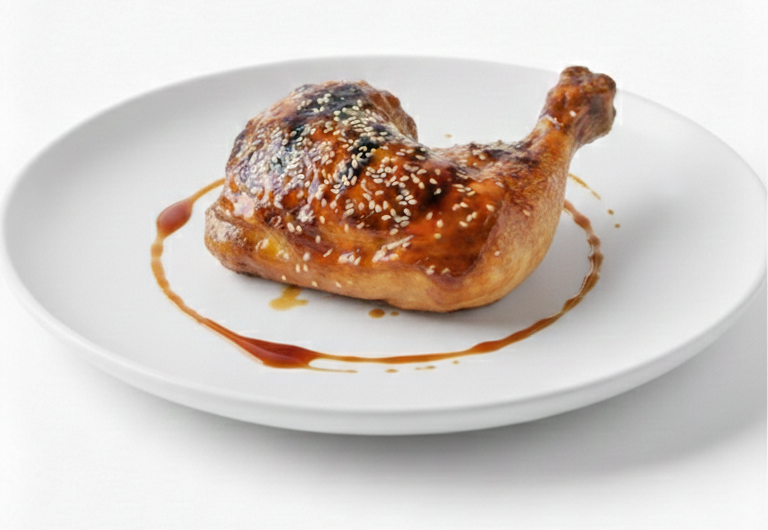
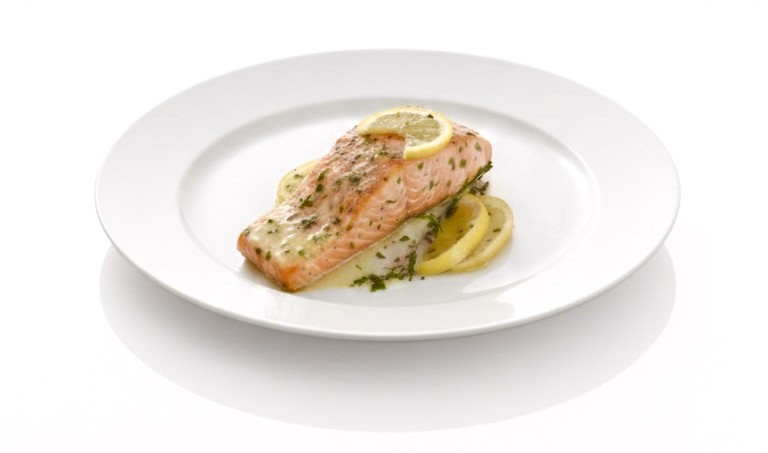
כעכגעכגע

diff --git a/bsisi.html b/bsisi.html
@@ -1340,7 +1340,8 @@ M267 42L268 41L271 41L272 42L272 45L269 47L267 45Z"/>
         var popup = $("summary-popup");
         popup.style.display = "block";
         popup.setAttribute("aria-hidden", "false");
-        validatePopupForm();
+        popupFormWasSubmitted = false;
+        validatePopupForm(false);
 
         _popupLastFocus = document.activeElement;
 
@@ -1431,7 +1432,9 @@ M267 42L268 41L271 41L272 42L272 45L269 47L267 45Z"/>
         return false;
       }
 
-      function validatePopupForm() {
+      var popupFormWasSubmitted = false;
+
+      function validatePopupForm(showErrors) {
         var nameEl = $("customerName");
         var addrEl = $("deliveryAddress");
         var phoneEl = $("customerPhone");
@@ -1453,24 +1456,50 @@ M267 42L268 41L271 41L272 42L272 45L269 47L267 45Z"/>
         var okPhone = isValidILPhone(phone);
         var okDate = date.length > 0;
         var okTime = time.length > 0 && !timeEl.disabled;
+        var allOk = okName && okAddr && okPhone && okDate && okTime;
+        var missingFields = [];
+        var invalidFields = [];
 
-        setFieldValidity(nameEl, okName);
-        setFieldValidity(addrEl, okAddr);
-        setFieldValidity(phoneEl, okPhone);
-        setFieldValidity(dateEl, okDate);
-        setFieldValidity(timeEl, okTime);
+        if (!name.length) missingFields.push("שם המזמין");
+        else if (!okName) invalidFields.push("שם המזמין - לפחות 2 תווים");
+
+        if (!addr.length) missingFields.push("כתובת למשלוח");
+        else if (!okAddr) invalidFields.push("כתובת למשלוח - נא למלא כתובת מלאה");
+
+        if (!phone.length) missingFields.push("טלפון לחזרה");
+        else if (!okPhone) invalidFields.push("טלפון לחזרה - מספר ישראלי תקין");
+
+        if (!okDate) missingFields.push("תאריך האירוע");
+        if (!okTime) missingFields.push("שעת משלוח משוערת");
+
+        if (showErrors) {
+          setFieldValidity(nameEl, okName);
+          setFieldValidity(addrEl, okAddr);
+          setFieldValidity(phoneEl, okPhone);
+          setFieldValidity(dateEl, okDate);
+          setFieldValidity(timeEl, okTime);
+        } else {
+          setFieldValidity(nameEl, true);
+          setFieldValidity(addrEl, true);
+          setFieldValidity(phoneEl, true);
+          setFieldValidity(dateEl, true);
+          setFieldValidity(timeEl, true);
+        }
 
         var msg = "";
-        if (!okName) msg = "יש אי־תקינות בשדה: שם המזמין (לפחות 2 תווים).";
-        else if (!okAddr) msg = "יש אי־תקינות בשדה: כתובת למשלוח (נא למלא כתובת מלאה).";
-        else if (!okPhone) msg = "יש אי־תקינות בשדה: טלפון לחזרה (מספר ישראלי תקין).";
-        else if (!okDate) msg = "יש אי־תקינות בשדה: תאריך האירוע (נא לבחור תאריך).";
-        else if (!okTime) msg = "יש אי־תקינות בשדה: שעת משלוח משוערת (נא לבחור שעה).";
+        if (showErrors) {
+          if (missingFields.length) {
+            msg = "חסרים פרטים: " + missingFields.join(", ") + ".";
+          } else if (invalidFields.length) {
+            msg = "יש אי־תקינות בפרטים: " + invalidFields.join(", ") + ".";
+          }
+        }
 
         setFormError(msg);
 
-        var allOk = okName && okAddr && okPhone && okDate && okTime;
-        btn.disabled = !allOk;
+        if (btn.getAttribute("data-submitting") !== "true") btn.disabled = false;
+        btn.classList.toggle("is-disabled", !allOk);
+        btn.setAttribute("aria-disabled", allOk ? "false" : "true");
 
         return allOk;
       }
@@ -1598,13 +1627,13 @@ function buildItemsArray(data) {
       }
 
       function bindPopupFormEvents() {
-        var ids = ["customerName", "deliveryAddress", "customerPhone", "eventDate", "orderNotes"];
+        var ids = ["customerName", "deliveryAddress", "customerPhone", "eventDate", "eventTime", "orderNotes"];
         for (var i = 0; i < ids.length; i++) {
           var el = $(ids[i]);
           if (!el) continue;
-          el.addEventListener("input", validatePopupForm);
-          el.addEventListener("change", validatePopupForm);
-          el.addEventListener("blur", validatePopupForm);
+          el.addEventListener("input", function () { validatePopupForm(popupFormWasSubmitted); });
+          el.addEventListener("change", function () { validatePopupForm(popupFormWasSubmitted); });
+          el.addEventListener("blur", function () { validatePopupForm(popupFormWasSubmitted); });
         }
       }
 
@@ -1613,12 +1642,14 @@ function buildItemsArray(data) {
         if (!btn) return;
 
         btn.addEventListener("click", function () {
-          if (!validatePopupForm()) return;
+          popupFormWasSubmitted = true;
+          if (!validatePopupForm(true)) return;
 
           // var waUrl = "https://wa.me/" + WA_PHONE + "?text=" + encodeURIComponent(buildWhatsappText());
           // window.open(waUrl, "_blank");
 
           var oldText = btn.textContent;
+          btn.setAttribute("data-submitting", "true");
           btn.disabled = true;
           btn.textContent = "שולח...";
 
@@ -1654,8 +1685,9 @@ function buildItemsArray(data) {
               alert("לא הצלחתי לשלוח כרגע. נסי שוב.");
             })
             .finally(function () {
+              btn.removeAttribute("data-submitting");
               btn.textContent = oldText;
-              validatePopupForm();
+              validatePopupForm(popupFormWasSubmitted);
             });
         });
       }
@@ -1793,7 +1825,7 @@ function buildItemsArray(data) {
             timeEl.innerHTML = '<option value="">בחרי תאריך קודם</option>';
             timeEl.disabled = true;
             timeEl.value = "";
-            validatePopupForm();
+            validatePopupForm(popupFormWasSubmitted);
             return;
           }
 
@@ -1814,7 +1846,7 @@ function buildItemsArray(data) {
             timeEl.value = "";
           }
 
-          validatePopupForm();
+          validatePopupForm(popupFormWasSubmitted);
         }
 
         dateEl.addEventListener("change", refreshTimes);
@@ -1903,7 +1935,7 @@ function buildItemsArray(data) {
 
         initServingsChange();
 
-        validatePopupForm();
+        validatePopupForm(false);
         updateRemainingHints();
       }
 
@@ -1917,11 +1949,5 @@ function buildItemsArray(data) {
 </body>
 
 </html>
-
-
-
-
-
-
 
 

diff --git a/murchav.html b/murchav.html
@@ -1417,7 +1417,8 @@ M267 42L268 41L271 41L272 42L272 45L269 47L267 45Z"/>
         var popup = $("summary-popup");
         popup.style.display = "block";
         popup.setAttribute("aria-hidden", "false");
-        validatePopupForm();
+        popupFormWasSubmitted = false;
+        validatePopupForm(false);
 
         _popupLastFocus = document.activeElement;
 
@@ -1511,7 +1512,9 @@ M267 42L268 41L271 41L272 42L272 45L269 47L267 45Z"/>
         return false;
       }
 
-      function validatePopupForm() {
+      var popupFormWasSubmitted = false;
+
+      function validatePopupForm(showErrors) {
         var nameEl = $("customerName");
         var addrEl = $("deliveryAddress");
         var phoneEl = $("customerPhone");
@@ -1532,24 +1535,50 @@ M267 42L268 41L271 41L272 42L272 45L269 47L267 45Z"/>
         var okPhone = isValidILPhone(phone);
         var okDate = date.length > 0;
         var okTime = time.length > 0 && !timeEl.disabled;
+        var allOk = okName && okAddr && okPhone && okDate && okTime;
+        var missingFields = [];
+        var invalidFields = [];
 
-        setFieldValidity(nameEl, okName);
-        setFieldValidity(addrEl, okAddr);
-        setFieldValidity(phoneEl, okPhone);
-        setFieldValidity(dateEl, okDate);
-        setFieldValidity(timeEl, okTime);
+        if (!name.length) missingFields.push("שם המזמין");
+        else if (!okName) invalidFields.push("שם המזמין - לפחות 2 תווים");
+
+        if (!addr.length) missingFields.push("כתובת למשלוח");
+        else if (!okAddr) invalidFields.push("כתובת למשלוח - נא למלא כתובת מלאה");
+
+        if (!phone.length) missingFields.push("טלפון לחזרה");
+        else if (!okPhone) invalidFields.push("טלפון לחזרה - מספר ישראלי תקין");
+
+        if (!okDate) missingFields.push("תאריך האירוע");
+        if (!okTime) missingFields.push("שעת משלוח משוערת");
+
+        if (showErrors) {
+          setFieldValidity(nameEl, okName);
+          setFieldValidity(addrEl, okAddr);
+          setFieldValidity(phoneEl, okPhone);
+          setFieldValidity(dateEl, okDate);
+          setFieldValidity(timeEl, okTime);
+        } else {
+          setFieldValidity(nameEl, true);
+          setFieldValidity(addrEl, true);
+          setFieldValidity(phoneEl, true);
+          setFieldValidity(dateEl, true);
+          setFieldValidity(timeEl, true);
+        }
 
         var msg = "";
-        if (!okName) msg = "יש אי־תקינות בשדה: שם המזמין (לפחות 2 תווים).";
-        else if (!okAddr) msg = "יש אי־תקינות בשדה: כתובת למשלוח (נא למלא כתובת מלאה).";
-        else if (!okPhone) msg = "יש אי־תקינות בשדה: טלפון לחזרה (מספר ישראלי תקין).";
-        else if (!okDate) msg = "יש אי־תקינות בשדה: תאריך האירוע (נא לבחור תאריך).";
-        else if (!okTime) msg = "יש אי־תקינות בשדה: שעת משלוח משוערת (נא לבחור שעה).";
+        if (showErrors) {
+          if (missingFields.length) {
+            msg = "חסרים פרטים: " + missingFields.join(", ") + ".";
+          } else if (invalidFields.length) {
+            msg = "יש אי־תקינות בפרטים: " + invalidFields.join(", ") + ".";
+          }
+        }
 
         setFormError(msg);
 
-        var allOk = okName && okAddr && okPhone && okDate && okTime;
-        btn.disabled = !allOk;
+        if (btn.getAttribute("data-submitting") !== "true") btn.disabled = false;
+        btn.classList.toggle("is-disabled", !allOk);
+        btn.setAttribute("aria-disabled", allOk ? "false" : "true");
 
         return allOk;
       }
@@ -1680,13 +1709,13 @@ M267 42L268 41L271 41L272 42L272 45L269 47L267 45Z"/>
       }
 
       function bindPopupFormEvents() {
-        var ids = ["customerName", "deliveryAddress", "customerPhone", "eventDate", "orderNotes"];
+        var ids = ["customerName", "deliveryAddress", "customerPhone", "eventDate", "eventTime", "orderNotes"];
         for (var i = 0; i < ids.length; i++) {
           var el = $(ids[i]);
           if (!el) continue;
-          el.addEventListener("input", validatePopupForm);
-          el.addEventListener("change", validatePopupForm);
-          el.addEventListener("blur", validatePopupForm);
+          el.addEventListener("input", function () { validatePopupForm(popupFormWasSubmitted); });
+          el.addEventListener("change", function () { validatePopupForm(popupFormWasSubmitted); });
+          el.addEventListener("blur", function () { validatePopupForm(popupFormWasSubmitted); });
         }
       }
 
@@ -1695,12 +1724,14 @@ M267 42L268 41L271 41L272 42L272 45L269 47L267 45Z"/>
         if (!btn) return;
 
         btn.addEventListener("click", function () {
-          if (!validatePopupForm()) return;
+          popupFormWasSubmitted = true;
+          if (!validatePopupForm(true)) return;
 
           // var waUrl = "https://wa.me/" + WA_PHONE + "?text=" + encodeURIComponent(buildWhatsappText());
           // window.open(waUrl, "_blank");
 
           var oldText = btn.textContent;
+          btn.setAttribute("data-submitting", "true");
           btn.disabled = true;
           btn.textContent = "שולח...";
 
@@ -1734,8 +1765,9 @@ items: buildItemsArray(data),
               alert("לא הצלחתי לשלוח כרגע. נסי שוב.");
             })
             .finally(function () {
+              btn.removeAttribute("data-submitting");
               btn.textContent = oldText;
-              validatePopupForm();
+              validatePopupForm(popupFormWasSubmitted);
             });
         });
       }
@@ -1876,7 +1908,7 @@ items: buildItemsArray(data),
             timeEl.innerHTML = '<option value="">בחרי תאריך קודם</option>';
             timeEl.disabled = true;
             timeEl.value = "";
-            validatePopupForm();
+            validatePopupForm(popupFormWasSubmitted);
             return;
           }
 
@@ -1897,7 +1929,7 @@ items: buildItemsArray(data),
             timeEl.value = "";
           }
 
-          validatePopupForm();
+          validatePopupForm(popupFormWasSubmitted);
         }
 
         dateEl.addEventListener("change", refreshTimes);
@@ -1990,7 +2022,7 @@ items: buildItemsArray(data),
 
         initServingsChange();
 
-        validatePopupForm();
+        validatePopupForm(false);
         updateRemainingHints();
       }
 
@@ -2004,8 +2036,3 @@ items: buildItemsArray(data),
 </body>
 
 </html>
-
-
-
-
-

diff --git a/styles.css b/styles.css
@@ -1176,7 +1176,8 @@ display: block;
   box-shadow:0 22px 50px rgba(0,0,0,.22);
 }
 .page-basic .btn:active{ transform:translateY(0); }
-.page-basic .btn:disabled{
+.page-basic .btn:disabled,
+.page-basic .btn.is-disabled{
   opacity:.55;
   cursor:not-allowed;
   transform:none !important;